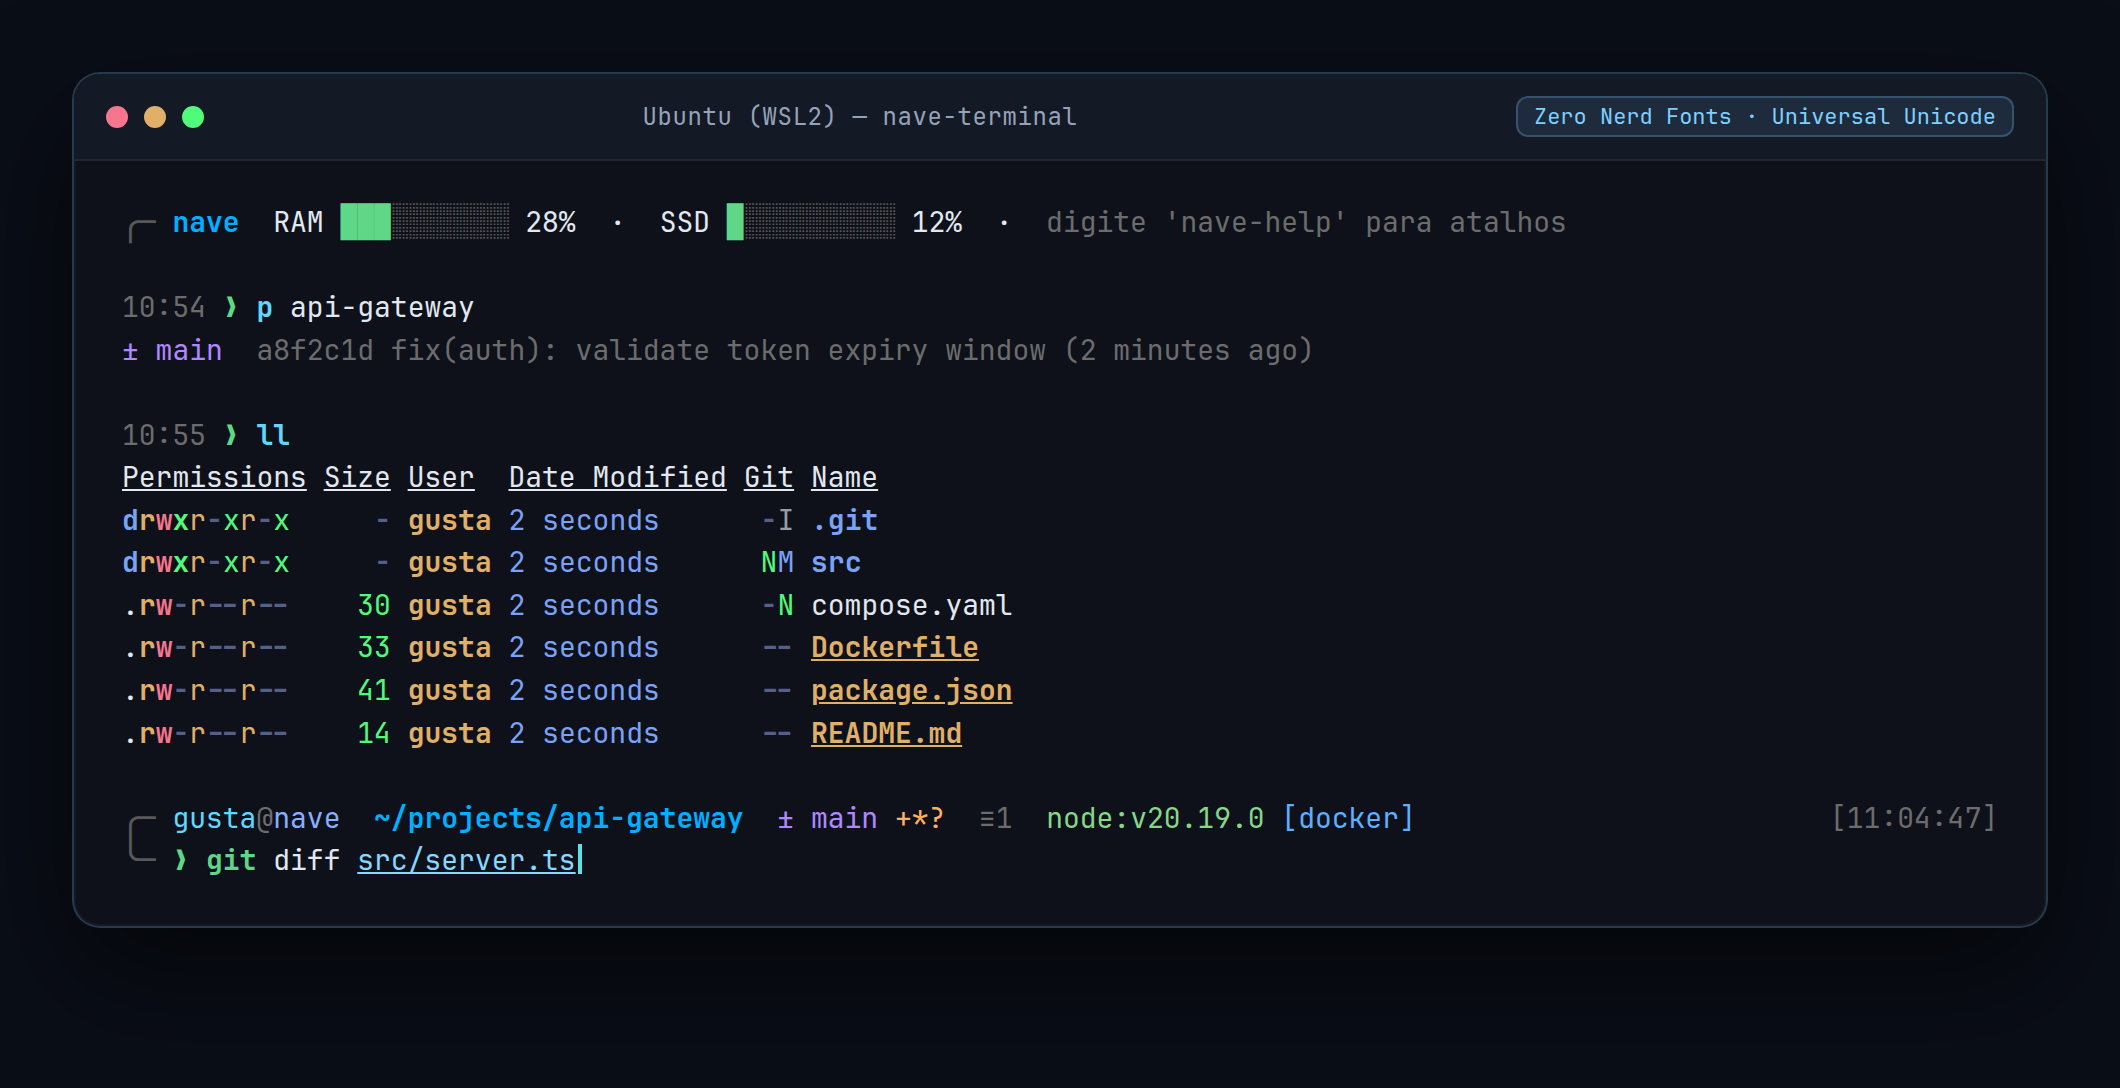
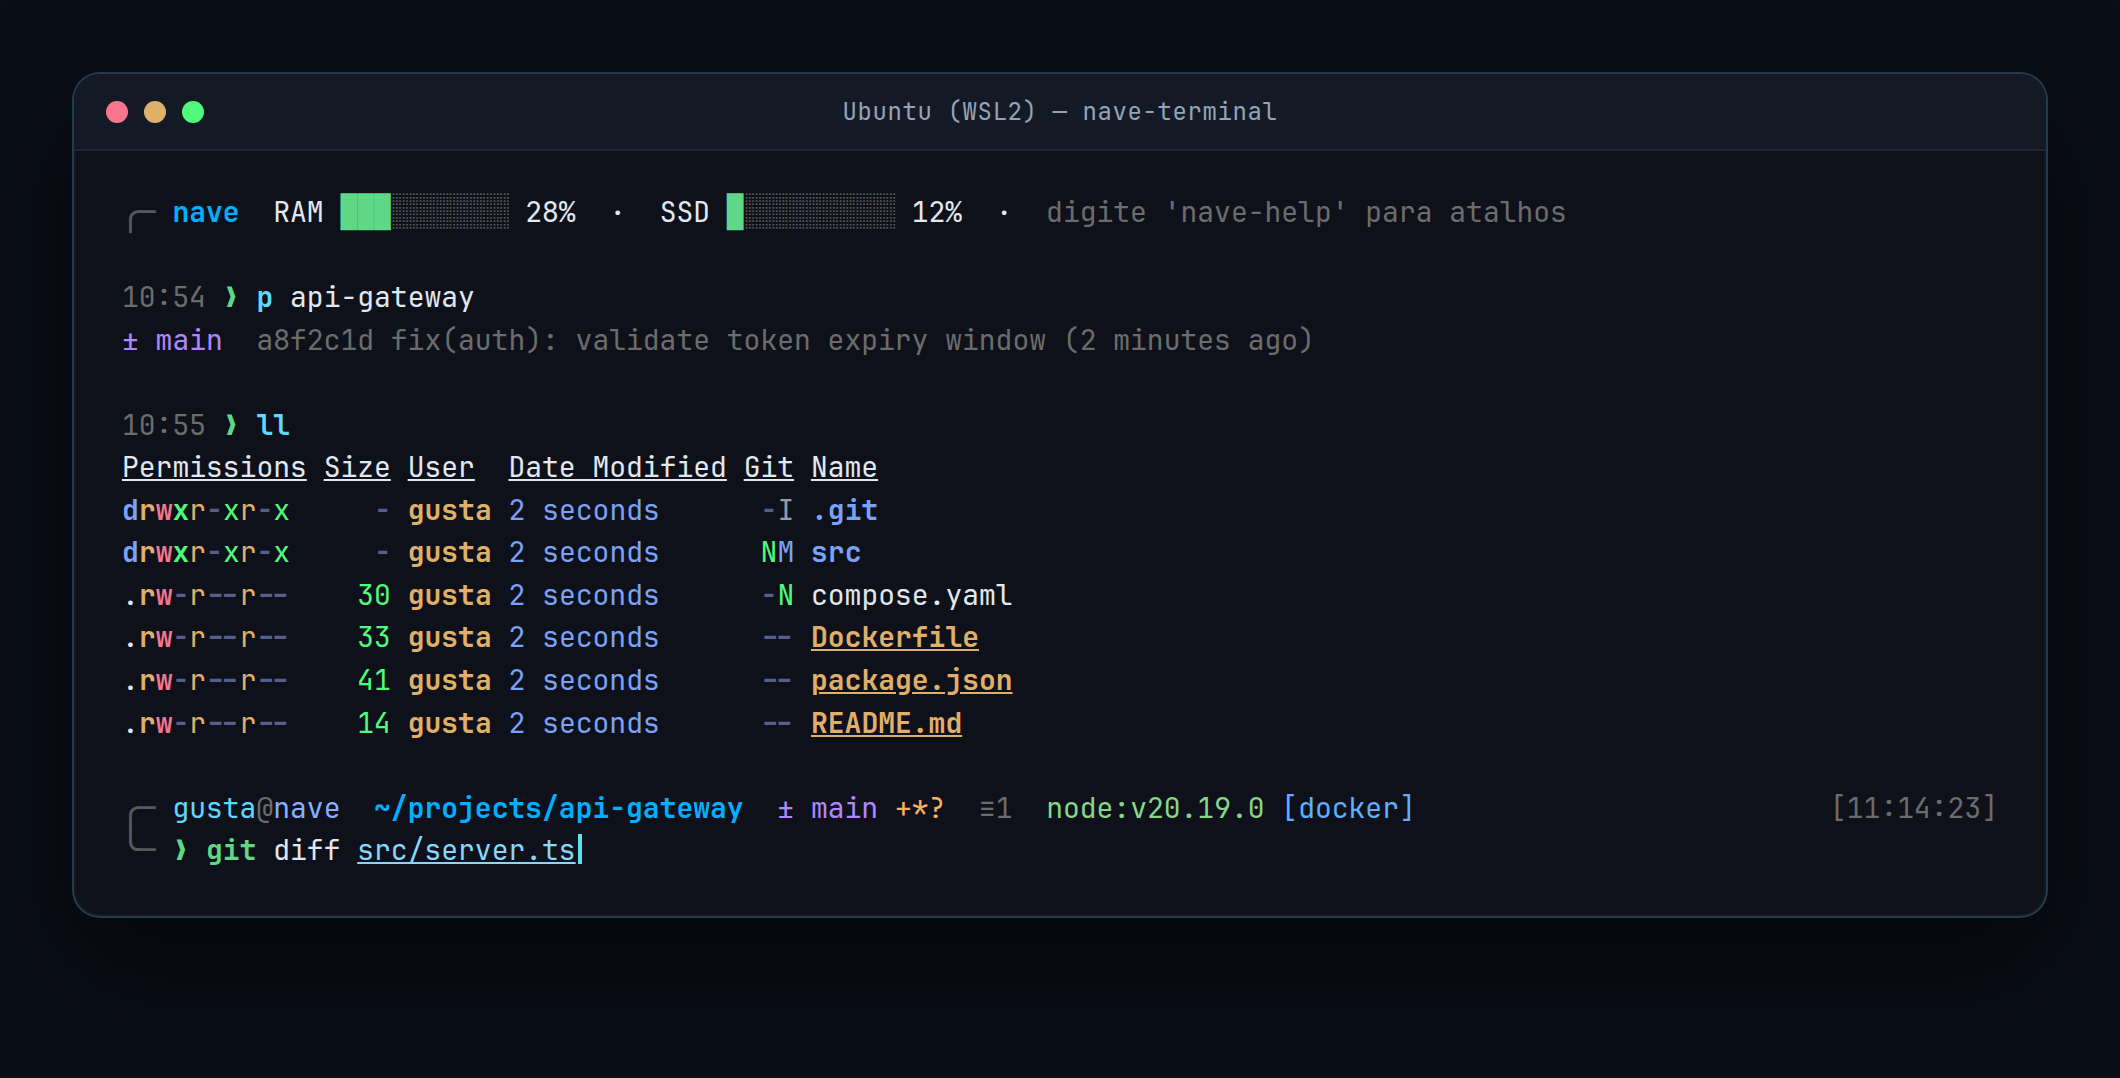
docs: refine hero screenshot and README highlights section

diff --git a/README.md b/README.md
@@ -17,17 +17,15 @@
   <img src="assets/hero-showcase.png" alt="Nave Terminal Showcase" width="100%" />
 </p>
 
-## Por que o Nave Terminal?
+## Destaques
 
-Muitos temas famosos de terminal dependem de glifos da Private Use Area (Nerd Fonts) ou emojis de largura ambígua — basta abrir o WSL no terminal integrado do VS Code, em outro visualizador ou via SSH para tudo virar `□□□` e o cursor desalinhar.
+Construído para ser rápido, legível e consistente em qualquer visualizador (Windows Terminal, VS Code, Cursor, Antigravity, ConHost ou SSH), usando apenas Box Drawing (`╭─`, `╰─`, `█`, `░`) e Unicode padrão (`❯`, `±`, `↑`, `↓`, `≡`, `×`):
 
-O **Nave Terminal** resolve isso usando **exclusivamente Box Drawing (`╭─`, `╰─`, `█`, `░`) e Unicode padrão universal (`❯`, `±`, `↑`, `↓`, `≡`, `×`)**, mantendo o visual moderno, rápido e cheio de recursos avançados:
-
-- **Zero caracteres quebrados** em Windows Terminal, VS Code, Cursor, Antigravity, ConHost ou SSH.
-- **Transient Prompt**: após pressionar Enter, prompts antigos colapsam para uma única linha minimalista (`HH:MM ❯ comando`), mantendo a tela limpa.
+- **Renderização limpa em qualquer terminal**: sem glifos proprietários que viram `□□□` ou emojis que desalinharam o cursor.
+- **Transient Prompt**: após pressionar Enter, prompts antigos colapsam para uma única linha minimalista (`HH:MM ❯ comando`), mantendo o foco no comando atual.
 - **5 paletas integradas com troca ao vivo** (`nave-theme`): sincroniza automaticamente o prompt, `zsh-syntax-highlighting`, `fzf` e `sysinfo`.
-- **Contexto inteligente**: truncamento automático de diretórios profundos, Git completo (`± branch`, `+` staged, `*` dirty, `?` untracked, `↑`/`↓` ahead/behind, `≡N` stashes, `MERGE`/`REBASE`), `venv`/`conda`, `node` e `[docker]`.
-- **Notificações nativas no Windows**: comandos demorados (`>= 15s`) disparam um toast assíncrono do Windows avisando se terminou com sucesso ou erro.
+- **Contexto inteligente**: truncamento automático de diretórios profundos, status Git completo (`± branch`, `+` staged, `*` dirty, `?` untracked, `↑`/`↓` ahead/behind, `≡N` stashes, `MERGE`/`REBASE`), `venv`/`conda`, `node` e `[docker]`.
+- **Notificações nativas no Windows**: comandos demorados (`>= 15s`) disparam um toast assíncrono do Windows avisando se concluiu com sucesso ou erro.
 - **Toolkit WSL + Dev pronto**: hub de projetos fuzzy (`p`), radar de portas (`ports` / `killport`), ponte WSL ↔ Windows (`clip`, `paste`, `winopen`, `winip`), Git turbo (`ginfo`, `gbf`, `gwip`, `gbclean`) e Docker cockpit (`dks`, `dkl`, `dksh`).
 
 ---
